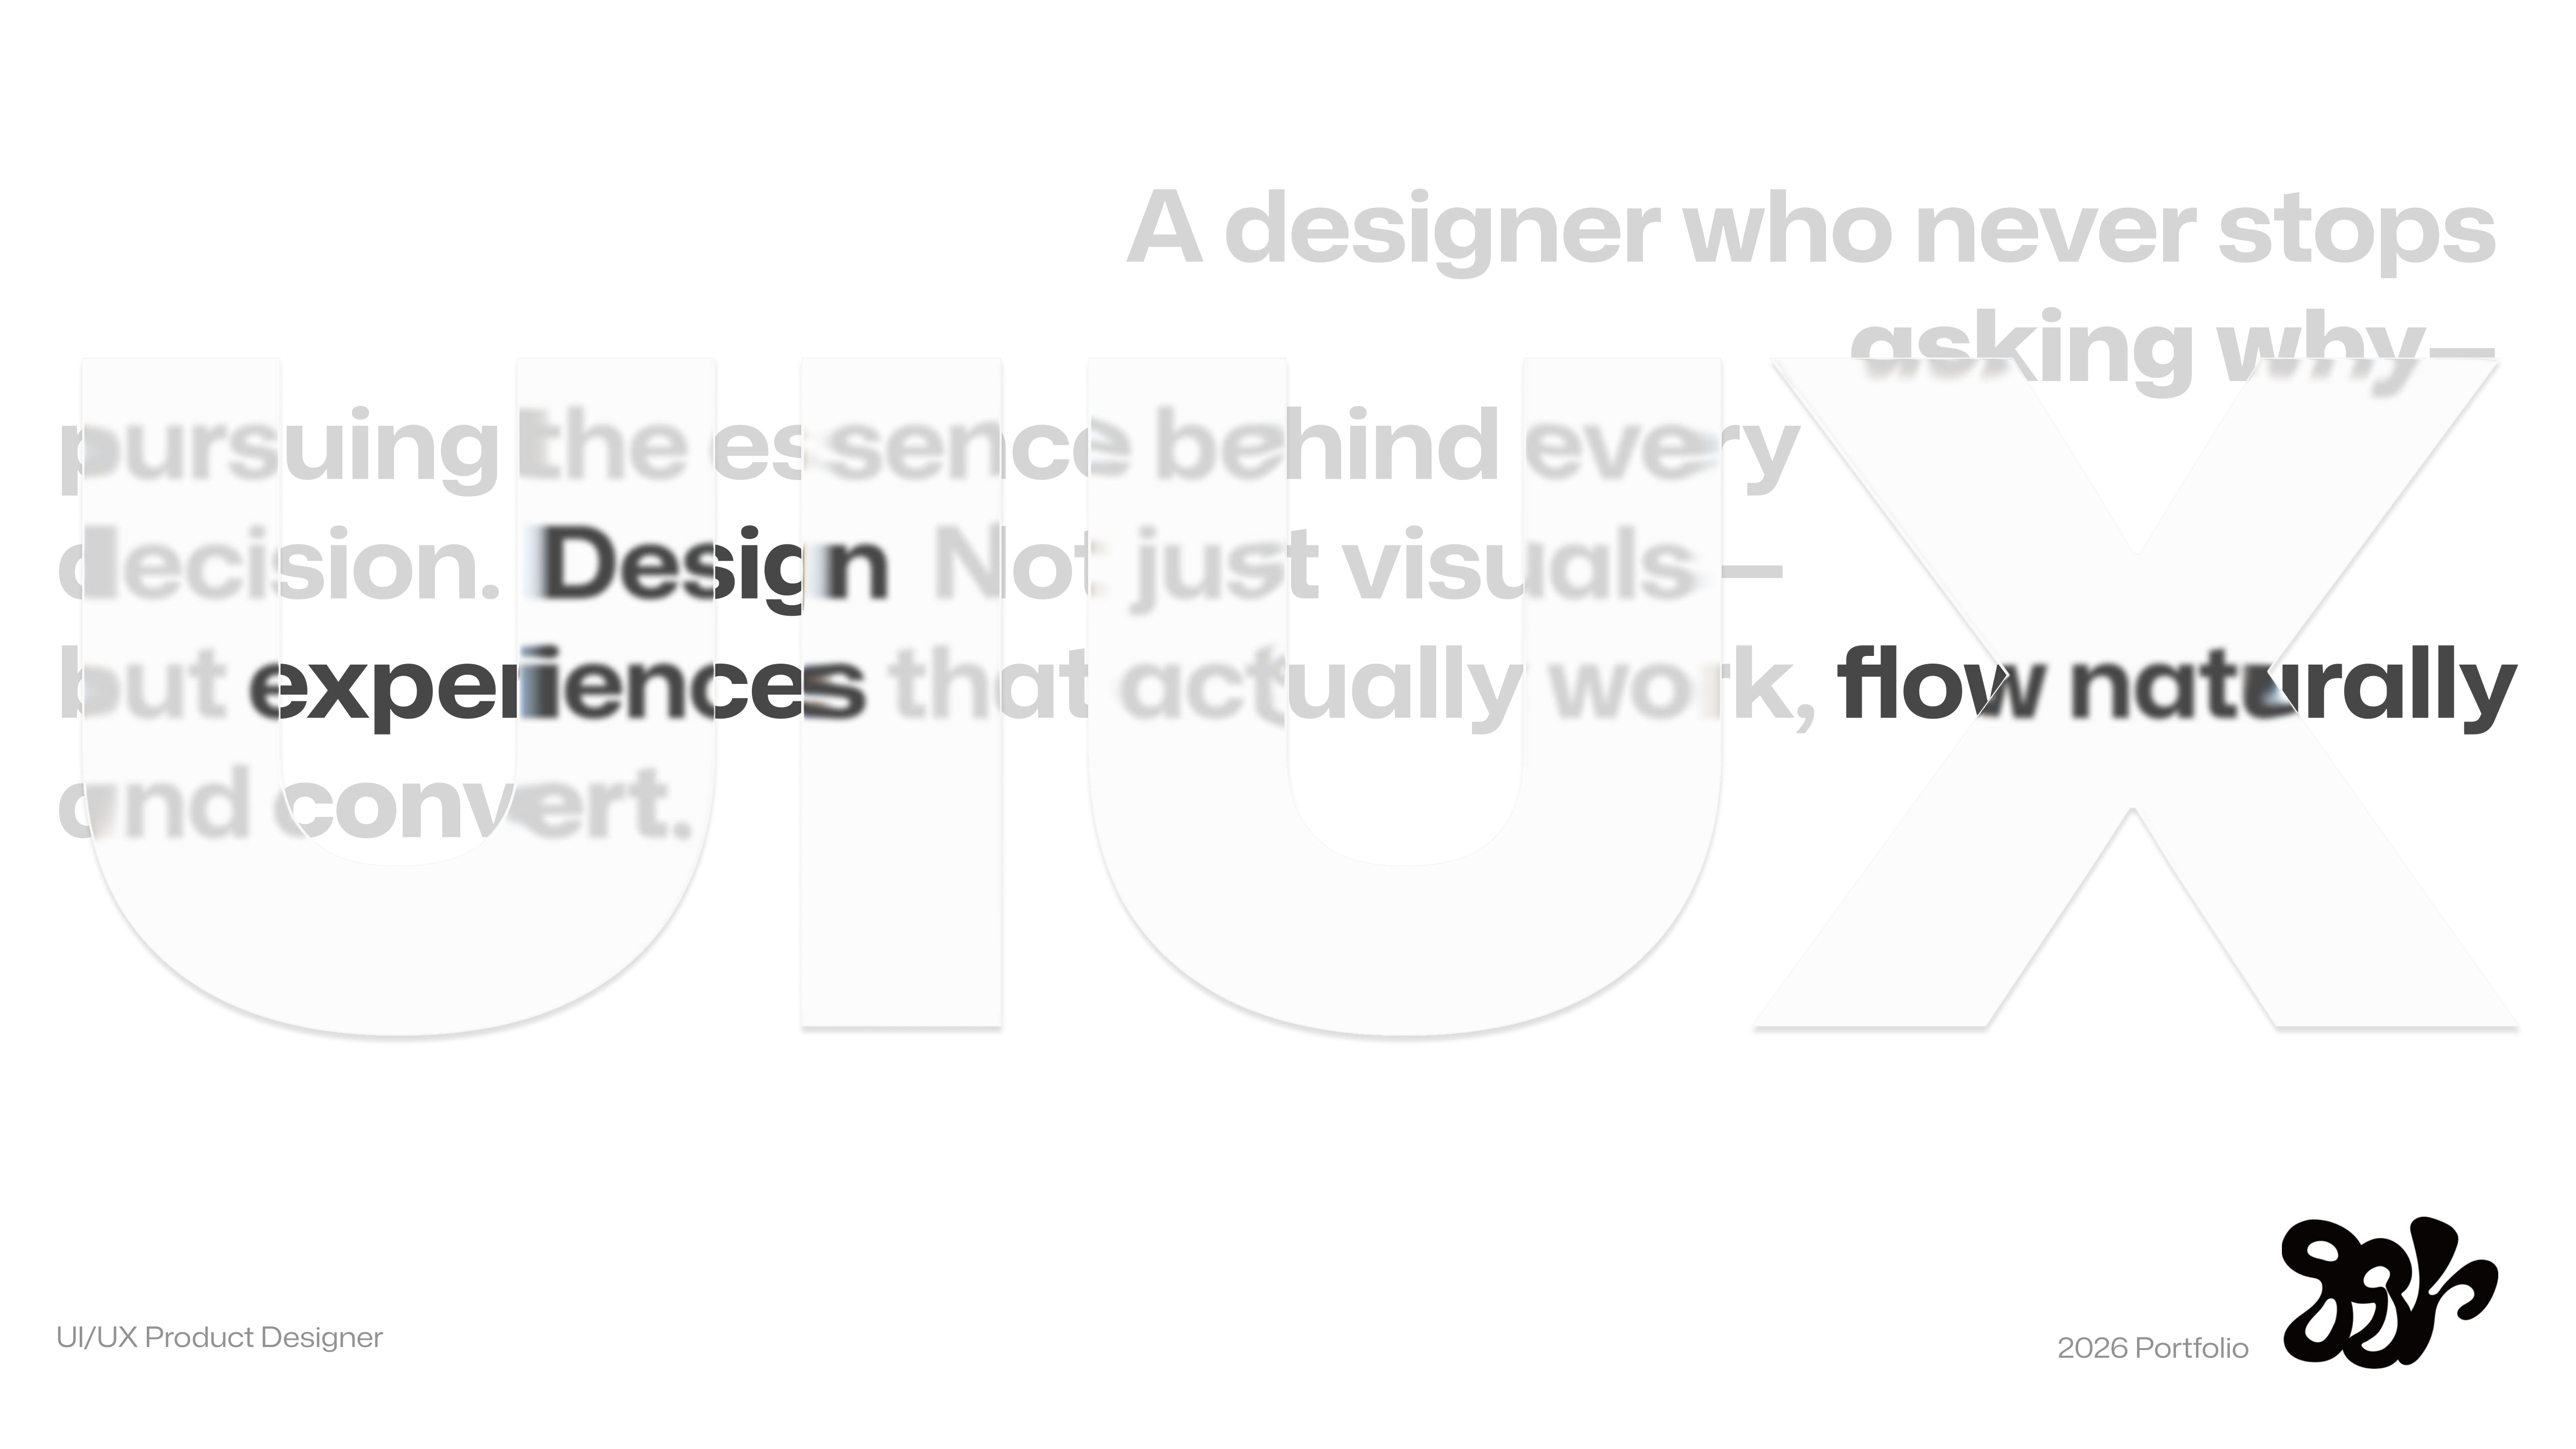
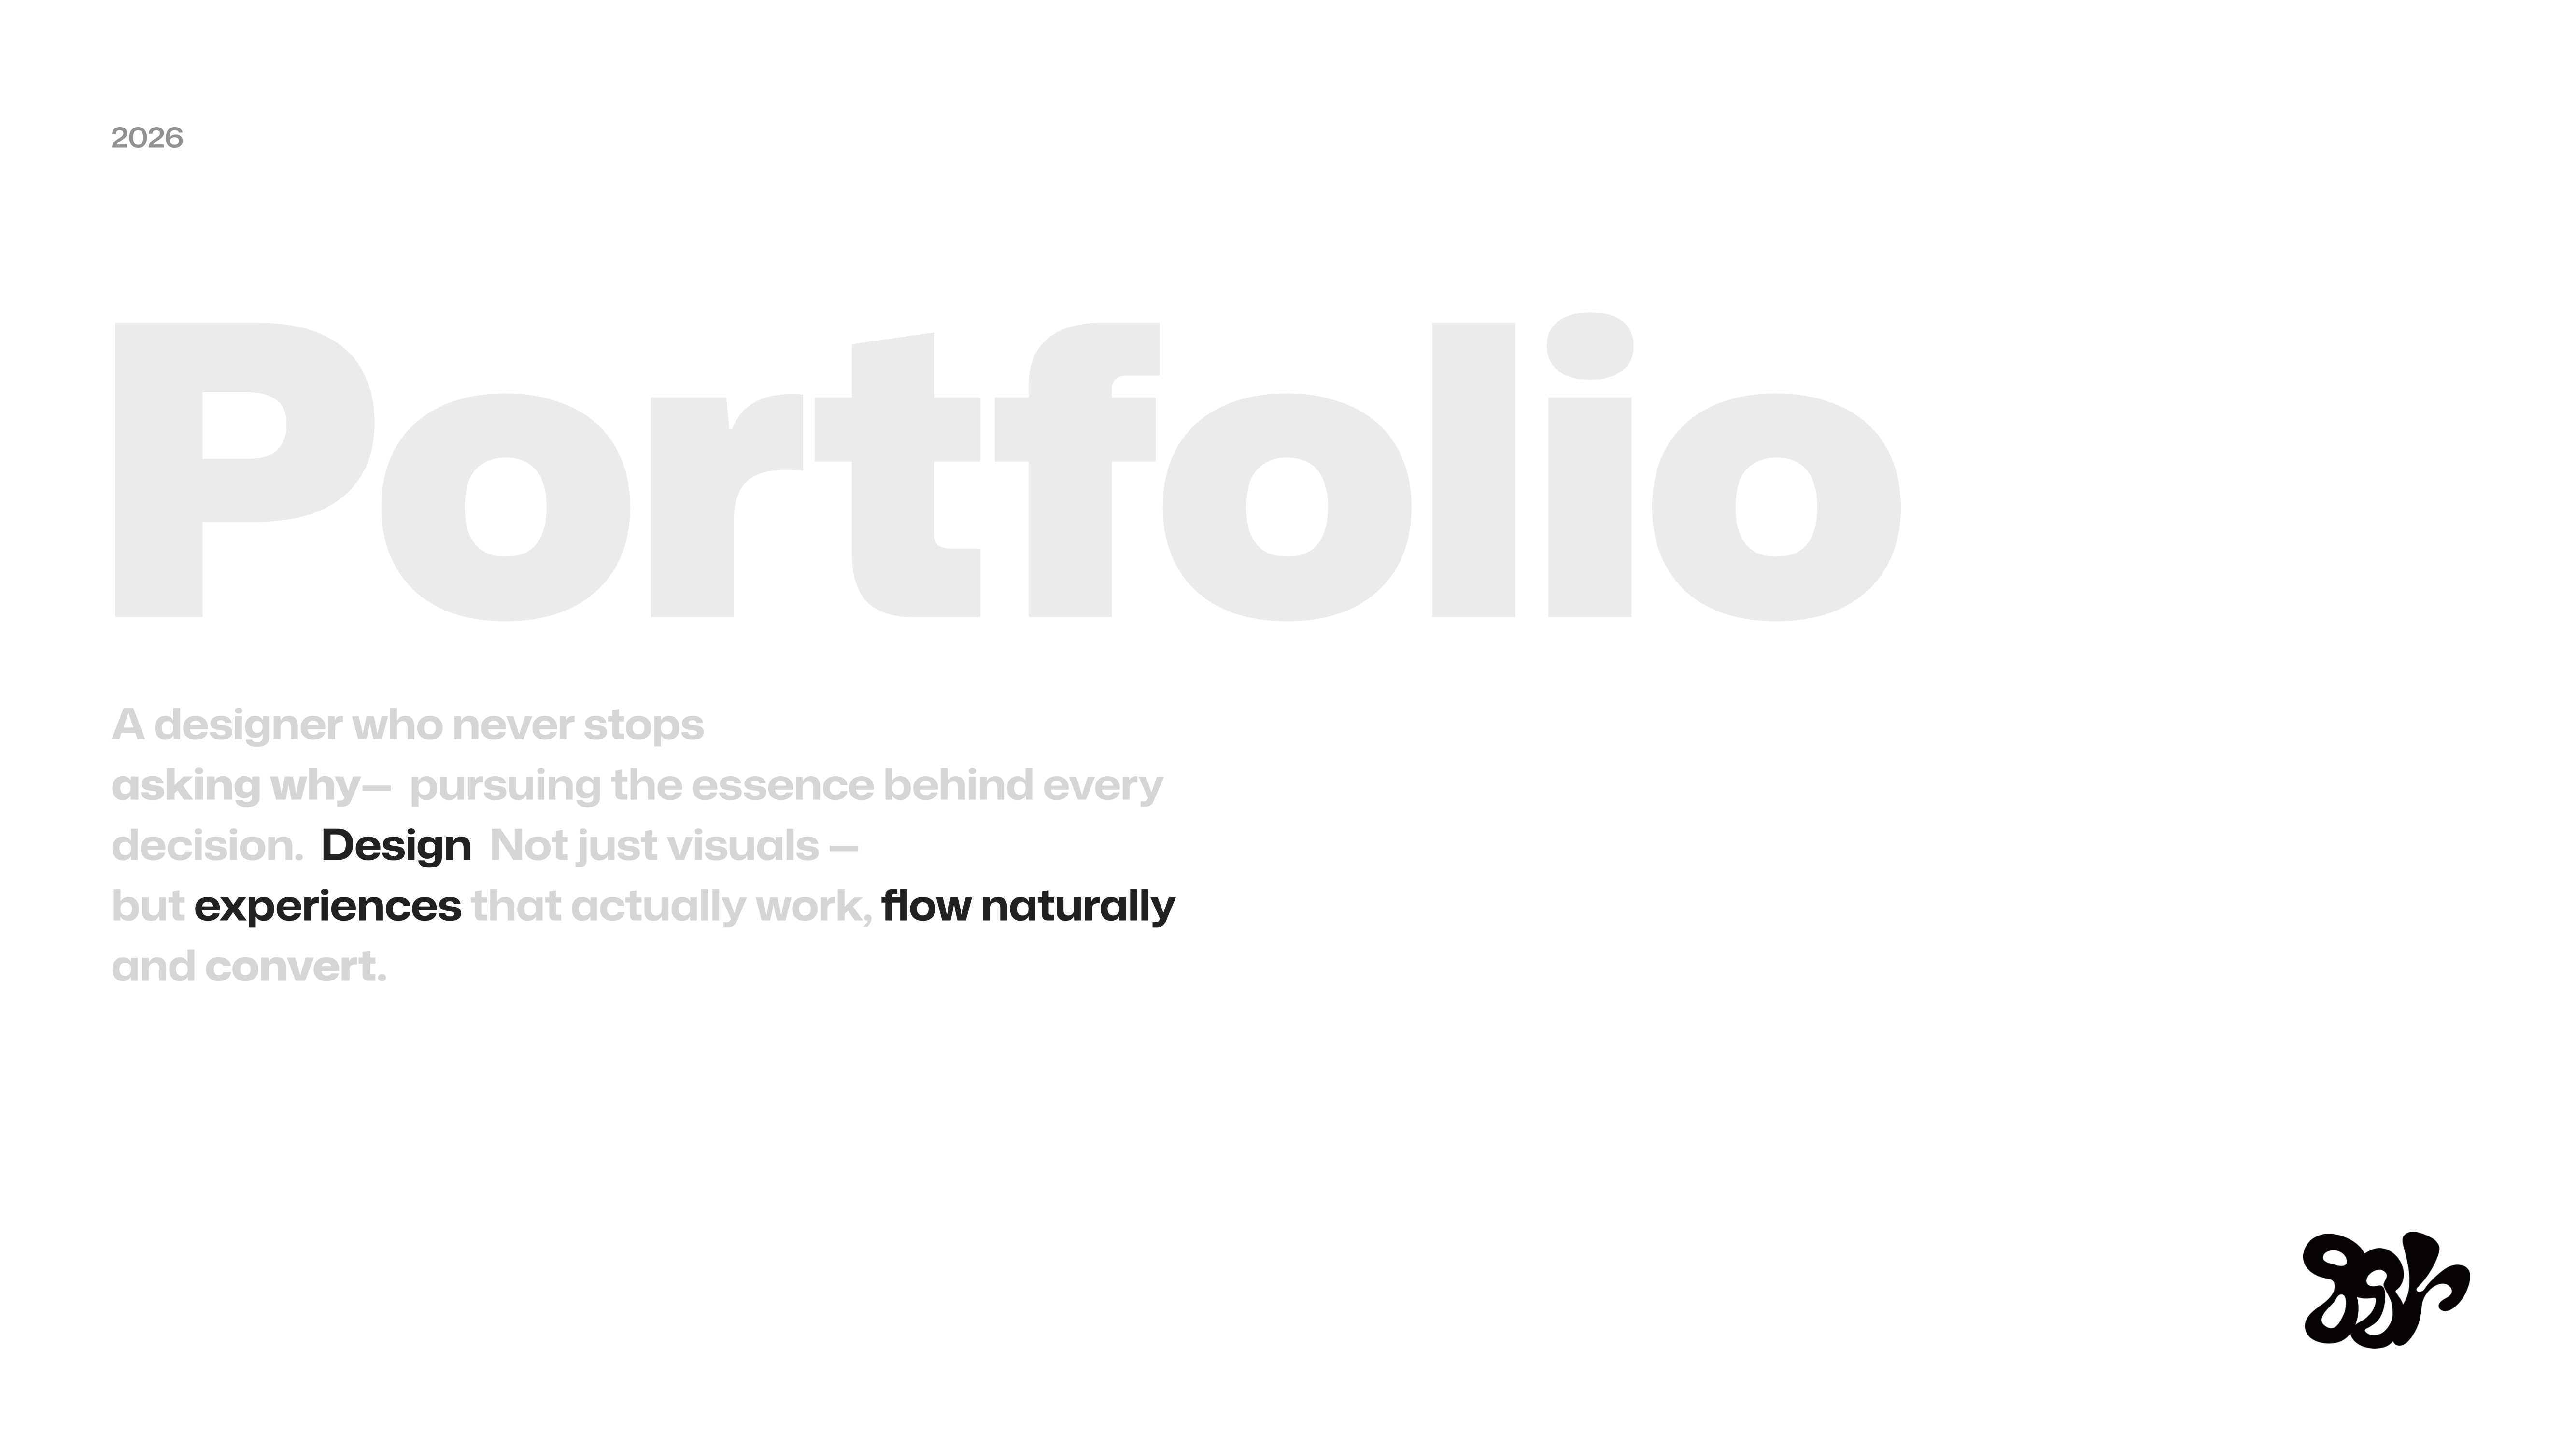
update(uiux): 커버 background-image:cover 전환 + 커버·푸터 모바일 반응형 CSS 보강
Made-with: Cursor

diff --git a/uiux/index.html b/uiux/index.html
@@ -44,20 +44,16 @@
       height: 100svh;
       min-height: 400px;
       overflow: hidden;
-      display: flex;
-      align-items: center;
-      justify-content: center;
-      background: #ffffff;
-    }
-
-    .cover__img {
-      width: 100%;
-      height: 100%;
-      object-fit: contain;
-      object-position: center center;
+      background: #fff url('images/01 cover.png') center center / cover no-repeat;
       will-change: transform;
-      transform: scale(1.05);
-      padding: clamp(16px, 3vw, 48px);
+    }
+    @media (max-width: 768px) {
+      .cover {
+        height: 56vh;
+        height: 56svh;
+        min-height: 280px;
+        background-position: center center;
+      }
     }
 
     /* ═══ ABOUT ME ═══ */
@@ -665,11 +661,11 @@
     }
 
     .footer__cta-label {
-      font-size: 11px;
+      font-size: 16px;
       font-weight: 600;
       letter-spacing: 0.08em;
       text-transform: uppercase;
-      color: rgba(255,255,255,0.35);
+      color: #ffffffc2;
       margin-bottom: clamp(16px, 2vh, 28px);
       display: flex;
       align-items: center;
@@ -679,13 +675,13 @@
       content: '';
       width: 20px;
       height: 1px;
-      background: rgba(255,255,255,0.25);
+      background: #ffffffc2;
     }
 
     .footer__display {
-      font-size: clamp(40px, 7vw, 96px);
+      font-size: clamp(40px, 7vw, 72px);
       font-weight: 700;
-      line-height: 0.95;
+      line-height: 1;
       letter-spacing: -0.03em;
       margin-bottom: clamp(32px, 5vh, 56px);
       max-width: 700px;
@@ -746,13 +742,13 @@
       gap: 20px;
     }
     .footer__link {
-      font-size: 12px;
+      font-size: 17px;
       font-weight: 600;
       letter-spacing: 0.04em;
-      color: rgba(255,255,255,0.55);
+      color: rgba(255, 255, 255, 0.862);
       text-decoration: none;
       padding: 8px 16px;
-      border: 1px solid rgba(255,255,255,0.15);
+      border: 1px solid rgba(255, 255, 255, 0.399);
       border-radius: 100px;
       transition: color 0.2s, background 0.2s, border-color 0.2s;
     }
@@ -777,15 +773,40 @@
       z-index: 0;
     }
 
-    @media (max-width: 600px) {
+    @media (max-width: 768px) {
+      .footer__top {
+        padding: 60px 24px 48px;
+      }
+      .footer__display {
+        font-size: clamp(32px, 8vw, 48px);
+        line-height: 1.05;
+      }
+      .footer__cta-label {
+        font-size: 13px;
+      }
       .footer__contact-grid {
         grid-template-columns: 1fr;
         gap: 20px;
+        max-width: 100%;
+      }
+      .footer__contact-value {
+        font-size: 15px;
       }
       .footer__bottom {
         flex-direction: column;
-        gap: 12px;
+        gap: 16px;
         align-items: flex-start;
+        padding: 20px 24px;
+      }
+      .footer__links {
+        gap: 12px;
+      }
+      .footer__link {
+        font-size: 14px;
+        padding: 7px 14px;
+      }
+      .footer__bg-text {
+        font-size: clamp(80px, 18vw, 140px);
       }
     }
   </style>
@@ -794,15 +815,7 @@
 <body>
 
   <!-- ═══ 01. COVER ═══ -->
-  <section class="cover" id="cover">
-    <img
-      class="cover__img"
-      id="coverImg"
-      src="images/01 cover.png"
-      alt="장지영 UI/UX Product Designer 2026 Portfolio"
-      draggable="false"
-    />
-  </section>
+  <section class="cover" id="cover"></section>
 
   <!-- ═══ ABOUT ME ═══ -->
   <section class="about" id="about">
@@ -1054,7 +1067,7 @@
     <div class="footer__bg-text">JJY</div>
     <div class="footer__top">
       <div class="footer__cta-label">감사합니다.</div>
-      <h2 class="footer__display">Let's<br><em>work</em><br>together.</h2>
+      <h2 class="footer__display">Thank you<br><em>for your time</em><br>and<br>consideration.</h2>
       <div class="footer__contact-grid">
         <div class="footer__contact-item">
           <div class="footer__contact-label">Email</div>
@@ -1068,17 +1081,12 @@
           <div class="footer__contact-label">GitHub</div>
           <a class="footer__contact-value" href="https://github.com/superji0" target="_blank" rel="noopener">github.com/superji0 ↗</a>
         </div>
-        <div class="footer__contact-item">
-          <div class="footer__contact-label">Portfolio</div>
-          <a class="footer__contact-value" href="https://superji0.github.io/" target="_blank" rel="noopener">superji0.github.io ↗</a>
-        </div>
       </div>
     </div>
     <div class="footer__bottom">
       <span class="footer__copy">© 2026 장지영. All rights reserved.</span>
       <div class="footer__links">
         <a class="footer__link" href="#cover">Top ↑</a>
-        <a class="footer__link" href="https://github.com/superji0" target="_blank" rel="noopener">GitHub</a>
       </div>
     </div>
   </footer>
@@ -1107,12 +1115,12 @@
     var reduced = window.matchMedia('(prefers-reduced-motion: reduce)').matches;
 
     /* ── 01. 커버 패럴랙스 ── */
-    var coverImg = document.getElementById('coverImg');
-    if (coverImg) {
-      gsap.fromTo(coverImg,
-        { yPercent: 0, scale: 1.05 },
+    var coverEl = document.getElementById('cover');
+    if (coverEl) {
+      gsap.fromTo(coverEl,
+        { backgroundPosition: 'center 40%' },
         {
-          yPercent: -3, scale: 1,
+          backgroundPosition: 'center 60%',
           ease: 'none',
           scrollTrigger: { trigger: '#cover', start: 'top top', end: 'bottom top', scrub: 1.2 }
         }